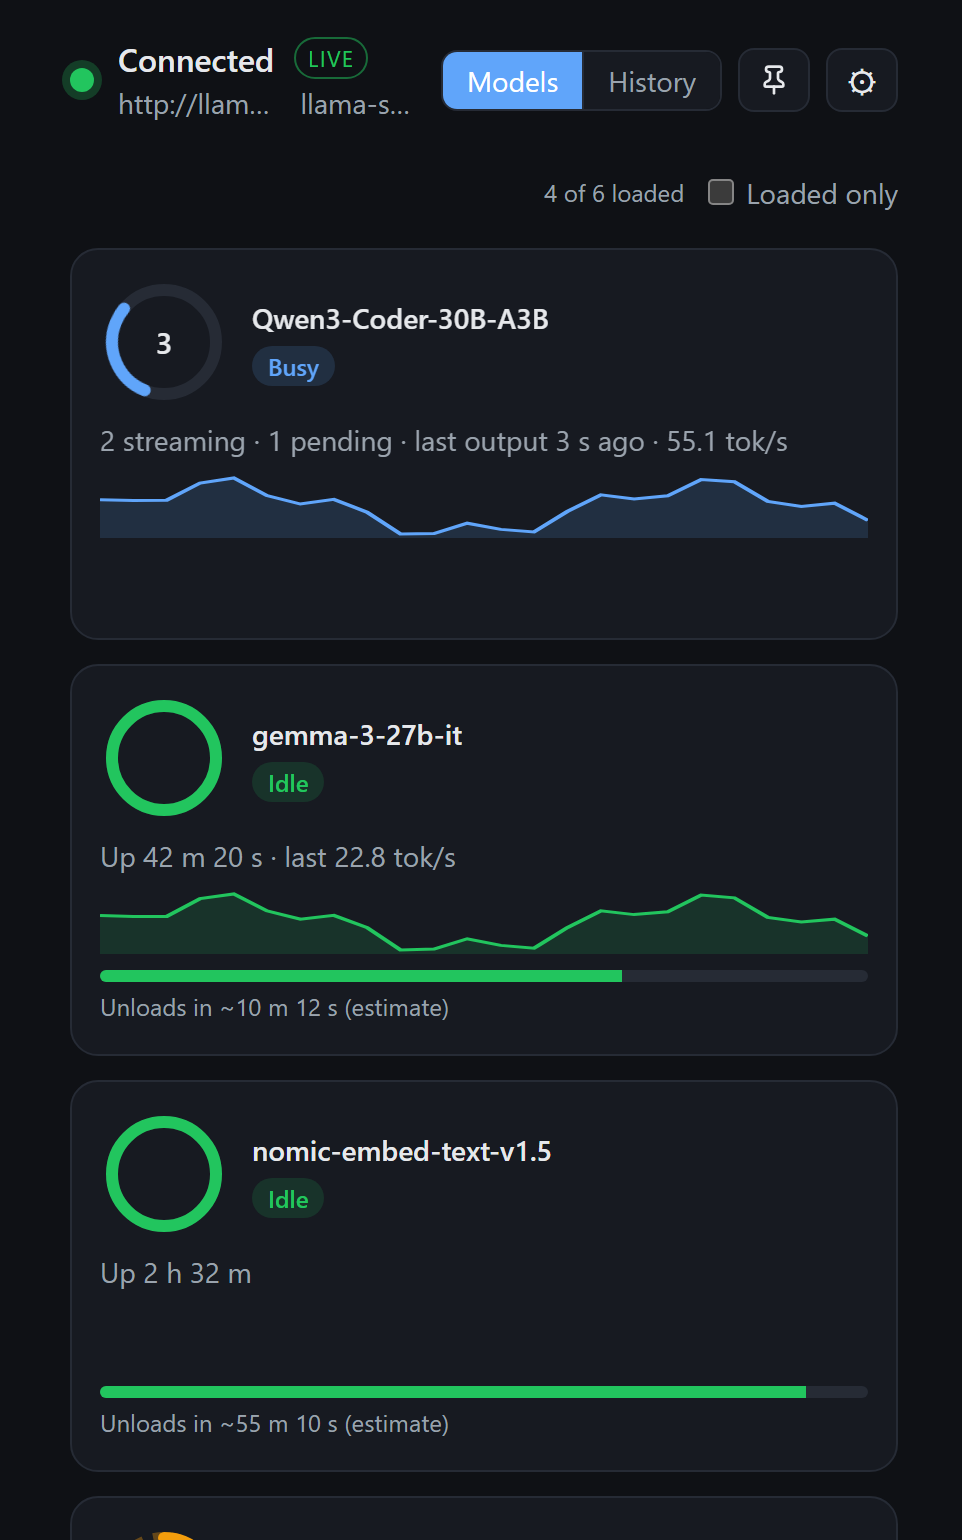
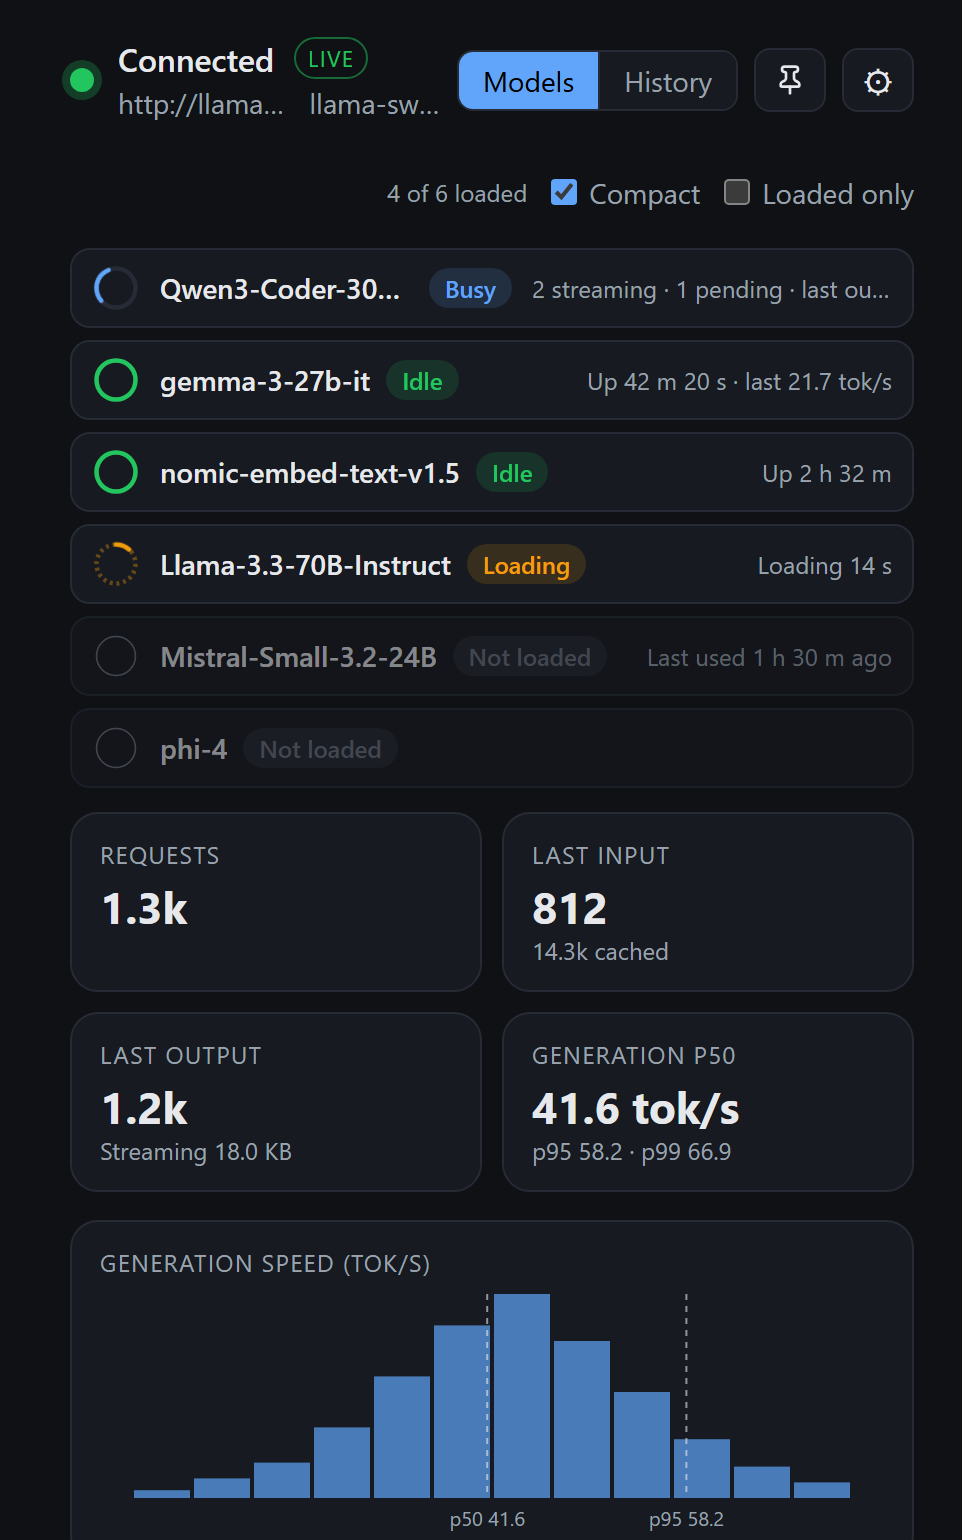
docs: bring the README up to date with 0.3.0 and the Mini layout (#16)
* docs: bring the README up to date with 0.3.0 and the Mini layout

- New "Toolbar and tiles" section: Compact, Loaded only, the Reload
  button, the four stat tiles (and why input and cached are never
  summed), and the dash for unknown History token counts.
- Window: the app now resizes the window when switching to or from
  Mini, so the "never resizes" sentence was wrong.
- Mini: keyboard access to the menu, and where Full dashboard goes.
- Models screenshot retaken in Compact mode with made-up data, showing
  every model state, the tiles and the histogram.
* docs: tighten the tile, Reload and Mini-restore wording

Only Last input and Last output have hints; the tiles follow the newest
request that reported tokens; Reload needs nothing loaded or loading and
a request in llama-swap's history; leaving Mini falls back to the default
place when the saved monitor is gone.
* docs: rewrap the Last input bullet

* docs: add a Mini strip screenshot to the Skin section

Captured from the frontend with made-up data, like the other README
screenshots, so no real host appears.

---------

diff --git a/README.md b/README.md
@@ -16,7 +16,7 @@ Llama Swatch is an independent project. It is not affiliated with or endorsed by
 or its maintainers.
 
 <p align="center">
-  <img src="docs/images/screenshot-models.png" alt="Models view: one busy model streaming and two idle models with unload timers" width="300">
+  <img src="docs/images/screenshot-models.png" alt="Models view in Compact mode: one busy, two idle, one loading and two unloaded models, with the request and token tiles and the generation-speed histogram below" width="300">
   <img src="docs/images/screenshot-history.png" alt="History view: recent requests with mode, status, token counts, tok/s and duration, with model swaps highlighted" width="540">
 </p>
 <p align="center"><sub>Screenshots use made-up data.</sub></p>
@@ -69,13 +69,36 @@ The header badge shows its state:
 Without readable events a ready model shows as Loaded rather than Idle. After events recover,
 a request that was already running may show as Idle until it sends output or finishes.
 
+## Toolbar and tiles
+
+- **Compact** shows each model on one line (ring, name, state and the status text), so more fit
+  without scrolling. **Loaded only** hides models that aren't loaded. Both are remembered.
+- When nothing is loaded or loading, a **Reload** button offers the model that llama-swap's
+  request history shows was used most recently, so you can bring it back with one click.
+- Below the models, four tiles summarise traffic:
+  - **Requests**: requests since llama-swap started.
+  - **Last input**: prompt tokens of the newest request that reported token counts, with the
+    cached tokens it reused underneath. Whether the input count includes the cached part depends
+    on the backend (OpenAI-style usage counts the whole prompt; llama.cpp counts only the newly
+    processed part), so the two are shown as reported and never added up.
+  - **Last output**: output tokens of that same request, plus how much reply data has arrived
+    so far while requests are streaming.
+  - **Generation p50**: median generation speed, with p95 and p99, and a histogram underneath.
+
+  Hover Last input or Last output, or tab to it, for the model behind that request and the
+  totals since llama-swap started.
+- In History, a token count llama-swap couldn't get from the backend shows as `—`.
+
 ## Window
 
 - On first launch the window opens centred at 481 x 770; on a screen whose work area is too
   short, the height shrinks to fit. It is always resizable, and your size, position and
   maximized state are remembered between launches. If the saved position is on a monitor that
   is no longer connected, the saved size is kept and the window opens at the default position
-  on the main screen instead. After startup the app never resizes or moves the window by itself.
+  on the main screen instead. After startup the app only resizes or moves the window when you
+  switch to or from the Mini layout (see **Skin** below); leaving Mini puts back the full
+  window's size, position and maximized state (or the default size and place if that spot is on
+  a monitor that is no longer connected).
 - Cards are one per row at a fixed height, and the header, toolbar, tiles and History columns
   keep their size as data changes, so nothing jumps around. Status banners and error toasts
   overlay the bottom of the window rather than pushing content down.
@@ -96,8 +119,12 @@ a request that was already running may show as Idle until it sends output or fin
   JSON files: drop `*.json` into the skins folder shown in settings (the Copy button copies its
   path), then press Rescan. Skins follow the Theme setting, so each has a light and a dark half.
   With the Minimal skin (or any skin with `"layout": "mini"`) the window becomes a one-line strip;
-  double-click or right-click it for Full dashboard or Settings. The "Cycle through loaded models in
+  double-click or right-click it for Full dashboard or Settings. From the keyboard, tab to the
+  strip and press the Menu key or Shift+F10; Escape closes the menu. Full dashboard returns to the
+  full skin you last used. The "Cycle through loaded models in
   Mini" option rotates through every loaded model every 4 s.
+
+  <img src="docs/images/screenshot-mini.png" alt="Mini strip with the Minimal skin: the busiest model, its Streaming status and a +2 count of the other loaded models, with minimise and close buttons" width="300">
 
   ```json
   {
